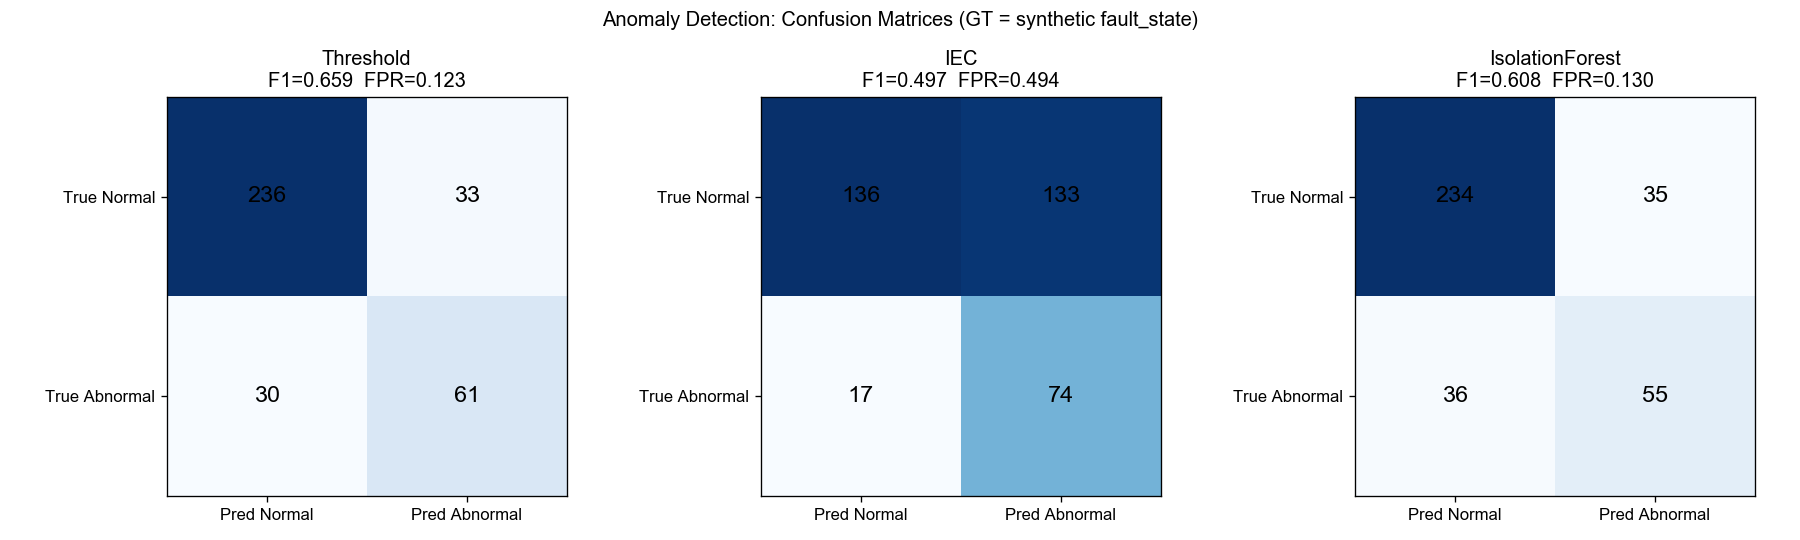
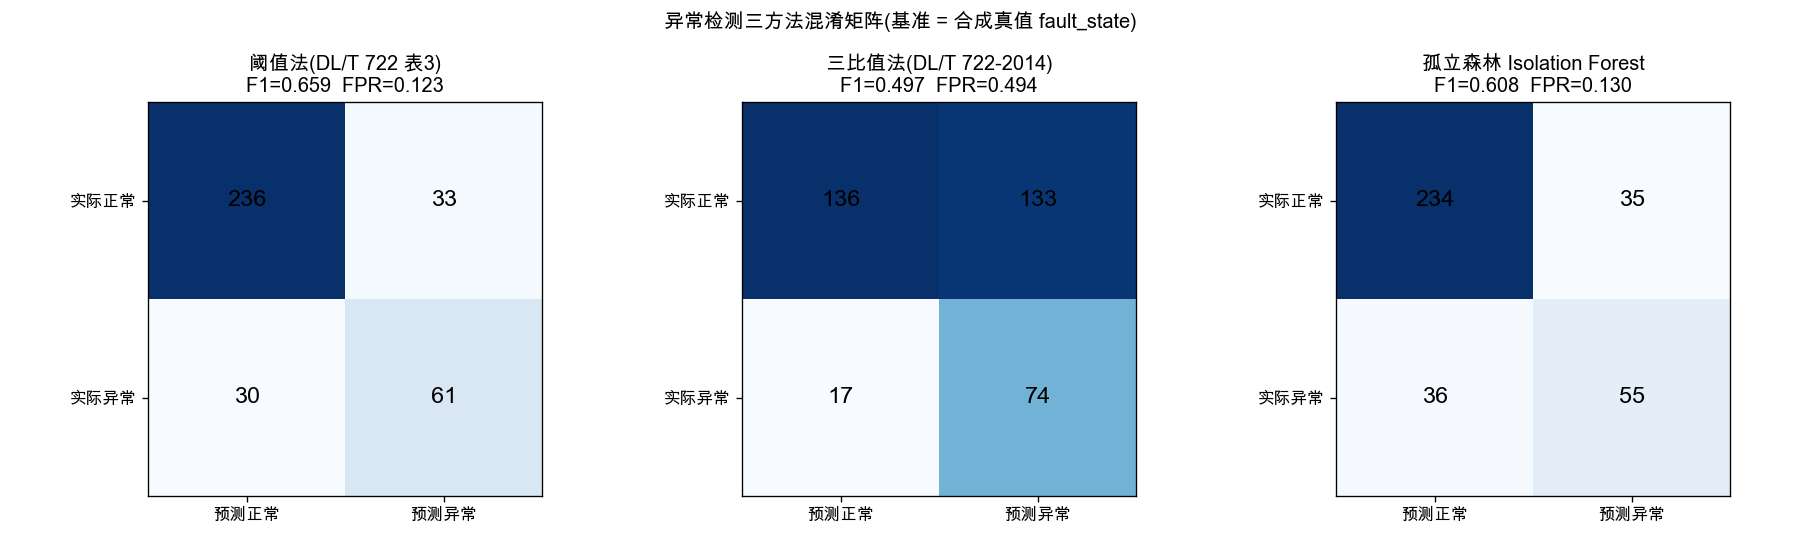
docs(be): 08 补「二分类如何划分」问答 + 混淆矩阵图中文化 + 失效分析据实修整
答辩材料据实核验:08 补二分类划分口径(表3,与代码/中期PPT一致);compare_detection 混淆矩阵图中文化(承D-044国标名);07 失效分析同步。

diff --git a/BE/scripts/compare_detection.py b/BE/scripts/compare_detection.py
@@ -104,18 +104,25 @@ def _plot_confusion(y_true: pd.Series, preds: dict, results: dict) -> None:
         return
 
     FIG_DIR.mkdir(parents=True, exist_ok=True)
+    # 展示名:对外图表用国标本体名(承 D-044,全栈 IEC→三比值法 DL/T 722)。
+    # 仅改图标题显示,不动 results 的 key(metrics 落盘/比对仍按内部键),零逻辑影响。
+    DISPLAY_NAME = {
+        "Threshold": "阈值法(DL/T 722 表3)",
+        "IEC": "三比值法(DL/T 722-2014)",
+        "IsolationForest": "孤立森林 Isolation Forest",
+    }
     fig, axes = plt.subplots(1, 3, figsize=(15, 4.5))
     for ax, (name, m) in zip(axes, results.items()):
         mat = [[m["TN"], m["FP"]], [m["FN"], m["TP"]]]
         ax.imshow(mat, cmap="Blues")
-        ax.set_title(f"{name}\nF1={m['f1']:.3f}  FPR={m['fpr']:.3f}")
-        ax.set_xticks([0, 1]); ax.set_xticklabels(["Pred Normal", "Pred Abnormal"])
-        ax.set_yticks([0, 1]); ax.set_yticklabels(["True Normal", "True Abnormal"])
+        ax.set_title(f"{DISPLAY_NAME.get(name, name)}\nF1={m['f1']:.3f}  FPR={m['fpr']:.3f}")
+        ax.set_xticks([0, 1]); ax.set_xticklabels(["预测正常", "预测异常"])
+        ax.set_yticks([0, 1]); ax.set_yticklabels(["实际正常", "实际异常"])
         for i in range(2):
             for j in range(2):
                 ax.text(j, i, str(mat[i][j]), ha="center", va="center",
                         color="black", fontsize=14)
-    plt.suptitle("Anomaly Detection: Confusion Matrices (GT = synthetic fault_state)")
+    plt.suptitle("异常检测三方法混淆矩阵(基准 = 合成真值 fault_state)")
     plt.tight_layout()
     plt.savefig(FIG_DIR / "detection_confusion.png", dpi=120)
     plt.close()

diff --git a/docs/08-defense-qa.md b/docs/08-defense-qa.md
@@ -26,8 +26,14 @@
 
 ## 三、指标与数据
 
-**Q:73% 误报率是不是太高?**
-> 结合预警系统特性看:① 预警遵循「宁可错报不可漏报」,优先召回(0.65);② 误报主要来自两处——软规则基于 ARIMA 预测值判定,预测误差转化为「预测性误报」(这是预警提前量的固有代价),以及异常多为早期/轻微样本(41% 未超注意值)、边界难判;③ 已用持续性判断(连续 N 次)+ 24h 去重抑制噪声;④ 进一步降误报是未来工作(动态阈值、多源上下文、Agent 二次研判)。我如实呈现 73% 而非调参美化。
+**Q:健康/异常的二分类到底怎么划分的?**
+> 用国标 DL/T 722-2014 **表3 运行设备注意值**划:H₂≥150、C₂H₂≥5(220kV 及以下)、总烃(CH₄+C₂H₄+C₂H₆+C₂H₂)≥150 μL/L,**任一超标即判异常**,三项全未超为健康;对外只输出这个 `is_abnormal` 二分类。为何用表3 而非三比值法定二分:表3 注意值的物理含义就是「气体偏高、需关注」,定义异常最直观、也与阈值检测器口径统一;三比值法(表7)是给**已判异常**的样本细分故障类型用的,没有「正常」编码,拿它判健康在方法论上错位——这正是中期(D-044)修正掉的早期问题。异常样本再用表7 三比值法细分故障类型,但**仅内部**用于合成器状态池分组,绝不对外。
+
+**Q:52% 误报率是不是太高?**
+> 结合预警系统特性看:① 预警遵循「宁可错报不可漏报」,优先召回(0.64);② 误报主要来自两处——软规则基于 ARIMA 预测值判定,预测误差转化为「预测性误报」(这是预警提前量的固有代价),以及异常多为早期/轻微样本(41% 未超注意值)、边界难判;③ 已用持续性判断(连续 N 次)+ 24h 去重抑制噪声;④ 进一步降误报是未来工作(动态阈值、多源上下文、Agent 二次研判)。我如实呈现 52% 而非调参美化。
+
+**Q:误报率怎么从 74% 降到 52% 的?是不是调参凑的?**
+> 不是调参,是**按国标校准伪信号**。原来产气速率在低浓度气体上会算出夸张涨幅——比如一个气体 0.86 涨到 18,涨幅两千多个百分点,全是伪信号,触发大量假预警。DL/T 722-2014 §9.3.2 明确「总烃起始含量低(<10μL/L)不宜用相对产气速率」,我据此加门槛,总烃不达标当日不判涨幅。误报率 74.4%→52%,召回/F1 同步改善——我没动任何判定阈值去凑数字。
 
 **Q:残余的误判/误报,根本原因是什么?**
 > 主要是**早期/轻微潜伏故障难判**:ground truth 用国标表3 二分后,异常组总烃中位 179 虽超注意值,但仍有 41% 异常样本未超注意值,这些边界样本是漏报/误报的主要来源——这正是 DGA 早期预警的行业难点,不是规则缺陷。预警误报另有「ARIMA 预测提前量」的固有代价。ARIMA>LSTM 则是 360 天小样本所致。**注**:早期我曾把这些都归为「数据弱可分」,但改用国标表3 打标后数据其实可分性合理(多数气体 Cohen's d≥0.43),那个「弱可分」结论已据实修正(D-044)。
@@ -37,6 +43,23 @@
 
 **Q:四个指标(准确率/召回/误报/F1)怎么理解?**
 > 基于混淆矩阵 TP/FP/FN/TN:准确率=判对占比(不平衡数据会失真);**召回率**=真异常抓到几成(高=漏报少,预警最看重);**误报率**=正常被瞎报几成(低=不扰民);F1=召回与精确率的调和平均。核心矛盾:召回↑常伴误报↑,没方法四项全赢,这正是要多方法对比的原因。
+
+**Q:回测为什么是 330 天?数据不是合成了 360 天吗?**
+> 两个数都对、口径不同:360 天是数据合成规模;330 天是预警回测样本。差的 30 天是「预热」——预警的软规则要吃 ARIMA 对未来 3 天的预测,而 ARIMA 要用「截至当日的历史」拟合,前 30 天历史不足,所以从第 30 天才开始算 TP/FP/FN/TN(代码 `range(30, 360)`)。这个 30 天和预测模块的滑窗回看长度是同一个常量,检测、预测、预警共用。检测不滑窗,所以检测仍用全量 360 天评估。
+
+**Q:输入窗口为什么取 30 天?7 天或 60 天行不行?**
+> 30 天是工程设定:变压器气体演化以天为单位、偏缓慢,一个月的窗口能覆盖月度尺度的趋势,也给 ARIMA 留足拟合历史。**坦诚说,我没有专门做窗口长度的对比实验来证明 30 最优**——它是依据 DGA 演化的时间尺度做的合理选择,不是调出来的。如果做扩展,窗口长度敏感性分析是一个明确的后续方向。
+
+## 四、系统实现与工程取舍
+
+**Q:论文写的是定时调度,实际怎么做的?**
+> 如实说明这是个偏差。论文原写「AgentExecutor + 定时调度」,实际做的是**离线预跑脚本触发**。原因是一次 ReAct 要调大模型约 13 秒,不适合放进在线请求路径(会拖慢接口)。所以我用脚本离线对代表性工单预跑、把执行轨迹落盘,前端按需读取。定时调度本身不难加(挂个定时器调同一个 `run_agent` 即可),如果答辩认为有必要我可以补上——当前以离线预跑覆盖各等级代表性工单。
+
+**Q:你怎么保证大模型不乱说、不越界?**
+> 两道保险。第一道,Prompt 里明文禁止输出故障类型、健康评分、运维建议这些越界内容;第二道,Agent 生成的通知在落盘前要过一道关键词黑名单(过热、放电、停运、检修、置信度、健康度等),命中就作废、回退到模板通知。**这不是设想——实测真的拦到过一次**:某次大模型输出了「停运」这个越界词,被黑名单拦下并自动降级。再加上 Agent 整体失败/超步时会退回纯 Pipeline,保证一定有可控的结果。
+
+**Q:论文写用 MySQL,为什么实际用 SQLite?**
+> 工程取舍。本系统是单机部署的本科毕设原型,数据量是单设备的时序,SQLite 零配置、免起服务、随项目走,完全够用;而且我通过 SQLAlchemy ORM 访问,语法和 MySQL 兼容,将来要换 MySQL 改一行连接串即可,业务代码不用动。论文里我会如实说明这一替换及理由。
 
 ---
 

diff --git a/docs/07-failure-analysis.md b/docs/07-failure-analysis.md
@@ -104,13 +104,25 @@ Isolation Forest:无监督,不偏任何规则口径
 
 ---
 
-## 三、预警 73% 误报率怎么办?
+## 三、预警 52% 误报率怎么办?
 
 ### 📊 现象分析
 ```
 预期:预警误报应尽量低
 实际:误报率 52.0%(召回 0.64,F1 0.39;混淆 TP=51 FP=130 FN=29 TN=120,330 天回测;D-046 产气速率门槛锚定国标总烃判据 §9.3.2 后,挡掉低浓度涨幅%伪触发,误报率由 D-045 的 74.4% 大降至 52.0%、召回/F1 同步改善)
 ```
+
+### 📐 为什么是 330 天回测(而非合成的 360 天)?
+```
+合成时序共 360 天,但前 30 天要留给 ARIMA 当历史输入,真正能回测的只有后 330 天。
+  · n = 360(合成总天数)
+  · DEFAULT_LOOKBACK = 30(滑窗回看;检测/预测/预警共用常量)
+  · 回测目标日 = range(30, 360) → 第 30~359 天,共 330 天
+根因:软规则吃 ARIMA 未来 3 天预测,forecast_arima(hist=df[:t]) 需足够历史才稳定拟合;
+      第 0~29 天历史不足,被「预热」吃掉,从第 30 天才开始算 TP/FP/FN/TN。
+注:持续性过滤(连续 N 次)是在这 330 天内部判每日有效与否,不再额外扣天数,勿与预热混淆。
+```
+口径区分(答辩别说混):**360 天 = 数据合成规模**(检测不滑窗,用全量 360 评估);**330 天 = 预警回测样本**(360 − 30 预热)。
 
 ### 🤔 为什么会这样?
 **原因 1:预警优先召回**
@@ -137,7 +149,7 @@ Isolation Forest:无监督,不偏任何规则口径
 
 > **6.5 预警决策系统效果评估**
 >
-> 系统在 330 天回测中召回率达 0.65,误报率为 0.732。约七成的误报率乍看较高,但需结合预警系统的特殊性解读。
+> 系统在 330 天回测中召回率达 0.64,误报率为 0.52(F1 0.39;混淆 TP=51/FP=130/FN=29/TN=120)。该误报率乍看仍偏高,但需结合预警系统的特殊性解读。
 >
 > **(1)预警 vs 诊断的本质差异**:与故障诊断追求精确分类不同,预警系统的核心目标是「宁可错报,不可漏报」。工业实践中,漏报一次故障的代价(设备损坏、停电事故)远大于多次误报的代价(人工核查)。因此预警系统通常以召回率优先。
 >
@@ -145,7 +157,7 @@ Isolation Forest:无监督,不偏任何规则口径
 >
 > **(3)误报控制的工程权衡**:本文设计了「持续性判断(连续 N 次)+ 时间窗去重」机制抑制噪声尖峰。进一步降低误报需引入更多上下文(设备年限、负载历史)与智能复核(Agent 二次研判),作为未来工作方向。
 >
-> **结论**:本文如实呈现 73% 的误报率而非通过调参美化。在「召回优先 + 预测提前量」的预警定位下,该误报水平是可解释的工程权衡;诚实揭示并分析其来源,本身即是研究严谨性的体现。
+> **结论**:本文如实呈现 52% 的误报率而非通过调参美化(该值由演进中的 74.4% 经「产气速率门槛锚定国标 §9.3.2」校准而来,详见 D-046,系挡掉低浓度涨幅%伪触发、而非调参降误报)。在「召回优先 + 预测提前量」的预警定位下,该误报水平是可解释的工程权衡;诚实揭示并分析其来源,本身即是研究严谨性的体现。
 
 ---
 
@@ -238,7 +250,7 @@ Isolation Forest:无监督,不偏任何规则口径
 ## 八、研究纪律(自我约束)
 
 1. **数字真实**:用项目真实运行值,不臆造、不套用别处样本量。
-2. **不洗白误报**:不把误报重命名为「亚健康」等再剔除变相降误报率。如实写 73%。
+2. **不洗白误报**:不把误报重命名为「亚健康」等再剔除变相降误报率。如实写 52%。
 3. **不编引用**:〔引文献〕处必须查真实可引文献,查不到就不写。
 4. **不虚报实验**:加权融合、数据量曲线等未实现的,只进未来工作。
 5. **不为指标改合成器**:D-044 改的是 ground truth 打标方法论(改用国标表3二分+表7细分,有据),**非为凑指标硬调气体分布**;合成仍保持原始 743 行分布,不人为放大异常显著性(那是失真)。

diff --git a/docs/05-decisions-log.md b/docs/05-decisions-log.md
@@ -5,6 +5,12 @@
 
 ---
 
+## 2026-06-28 08 答辩问答补「二分类如何划分」一条
+
+- 老师当面问「二分类怎么划分」,08 原 14 条无正面回答(表3 只在误报/数据来源题侧面带过)。核验 `eda.py:42 label_state`→`threshold.detect_one`(表3:H₂≥150/C₂H₂≥5/总烃≥150 任一超即异常)与代码、中期 PPT P6/P13 全栈一致,非新决策,仅把已定口径补成独立问答(08 三节首)。开题大纲旧口径(IEC/弱可分)属历史认知,不改——中期 P13 已交代修正链。
+
+---
+
 ## 2026-06-24 前端 5 页巡检收官:D-043/D-034 待清项核销(D-048)
 
 ### D-048:Prediction/Dashboard/Alerts 三页巡检一次过,确认旧越界/杜撰待办已全清